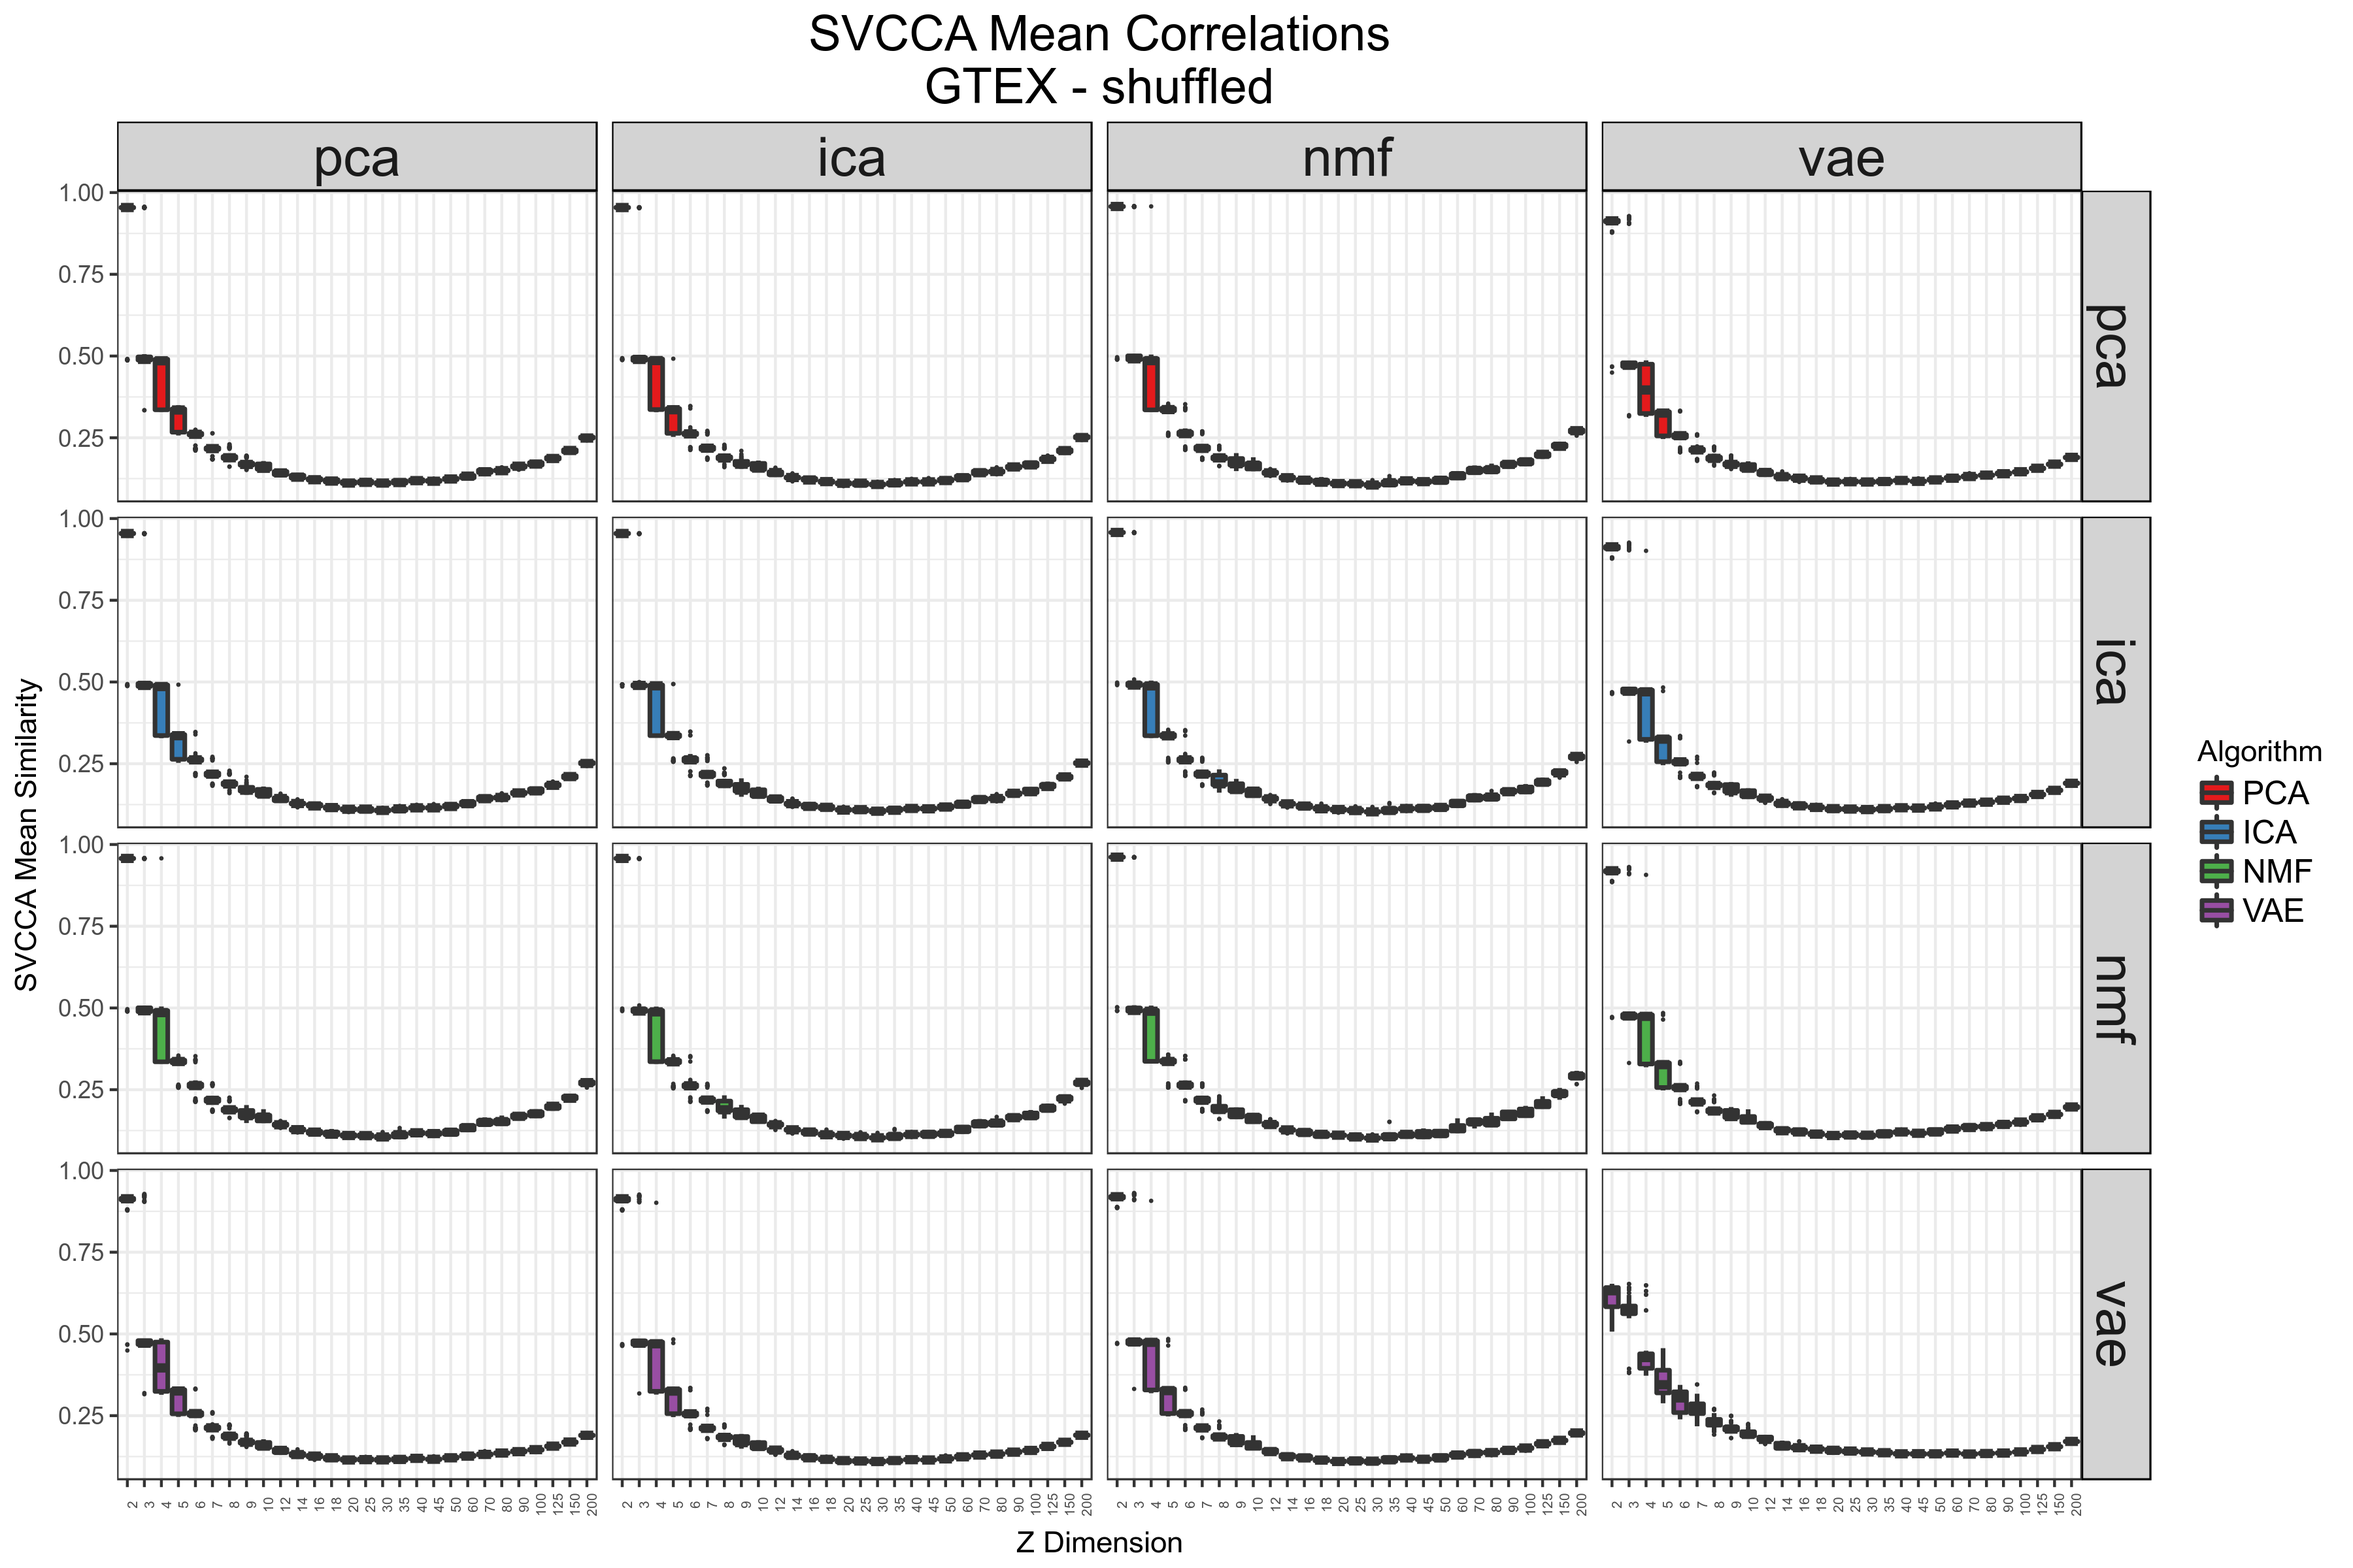
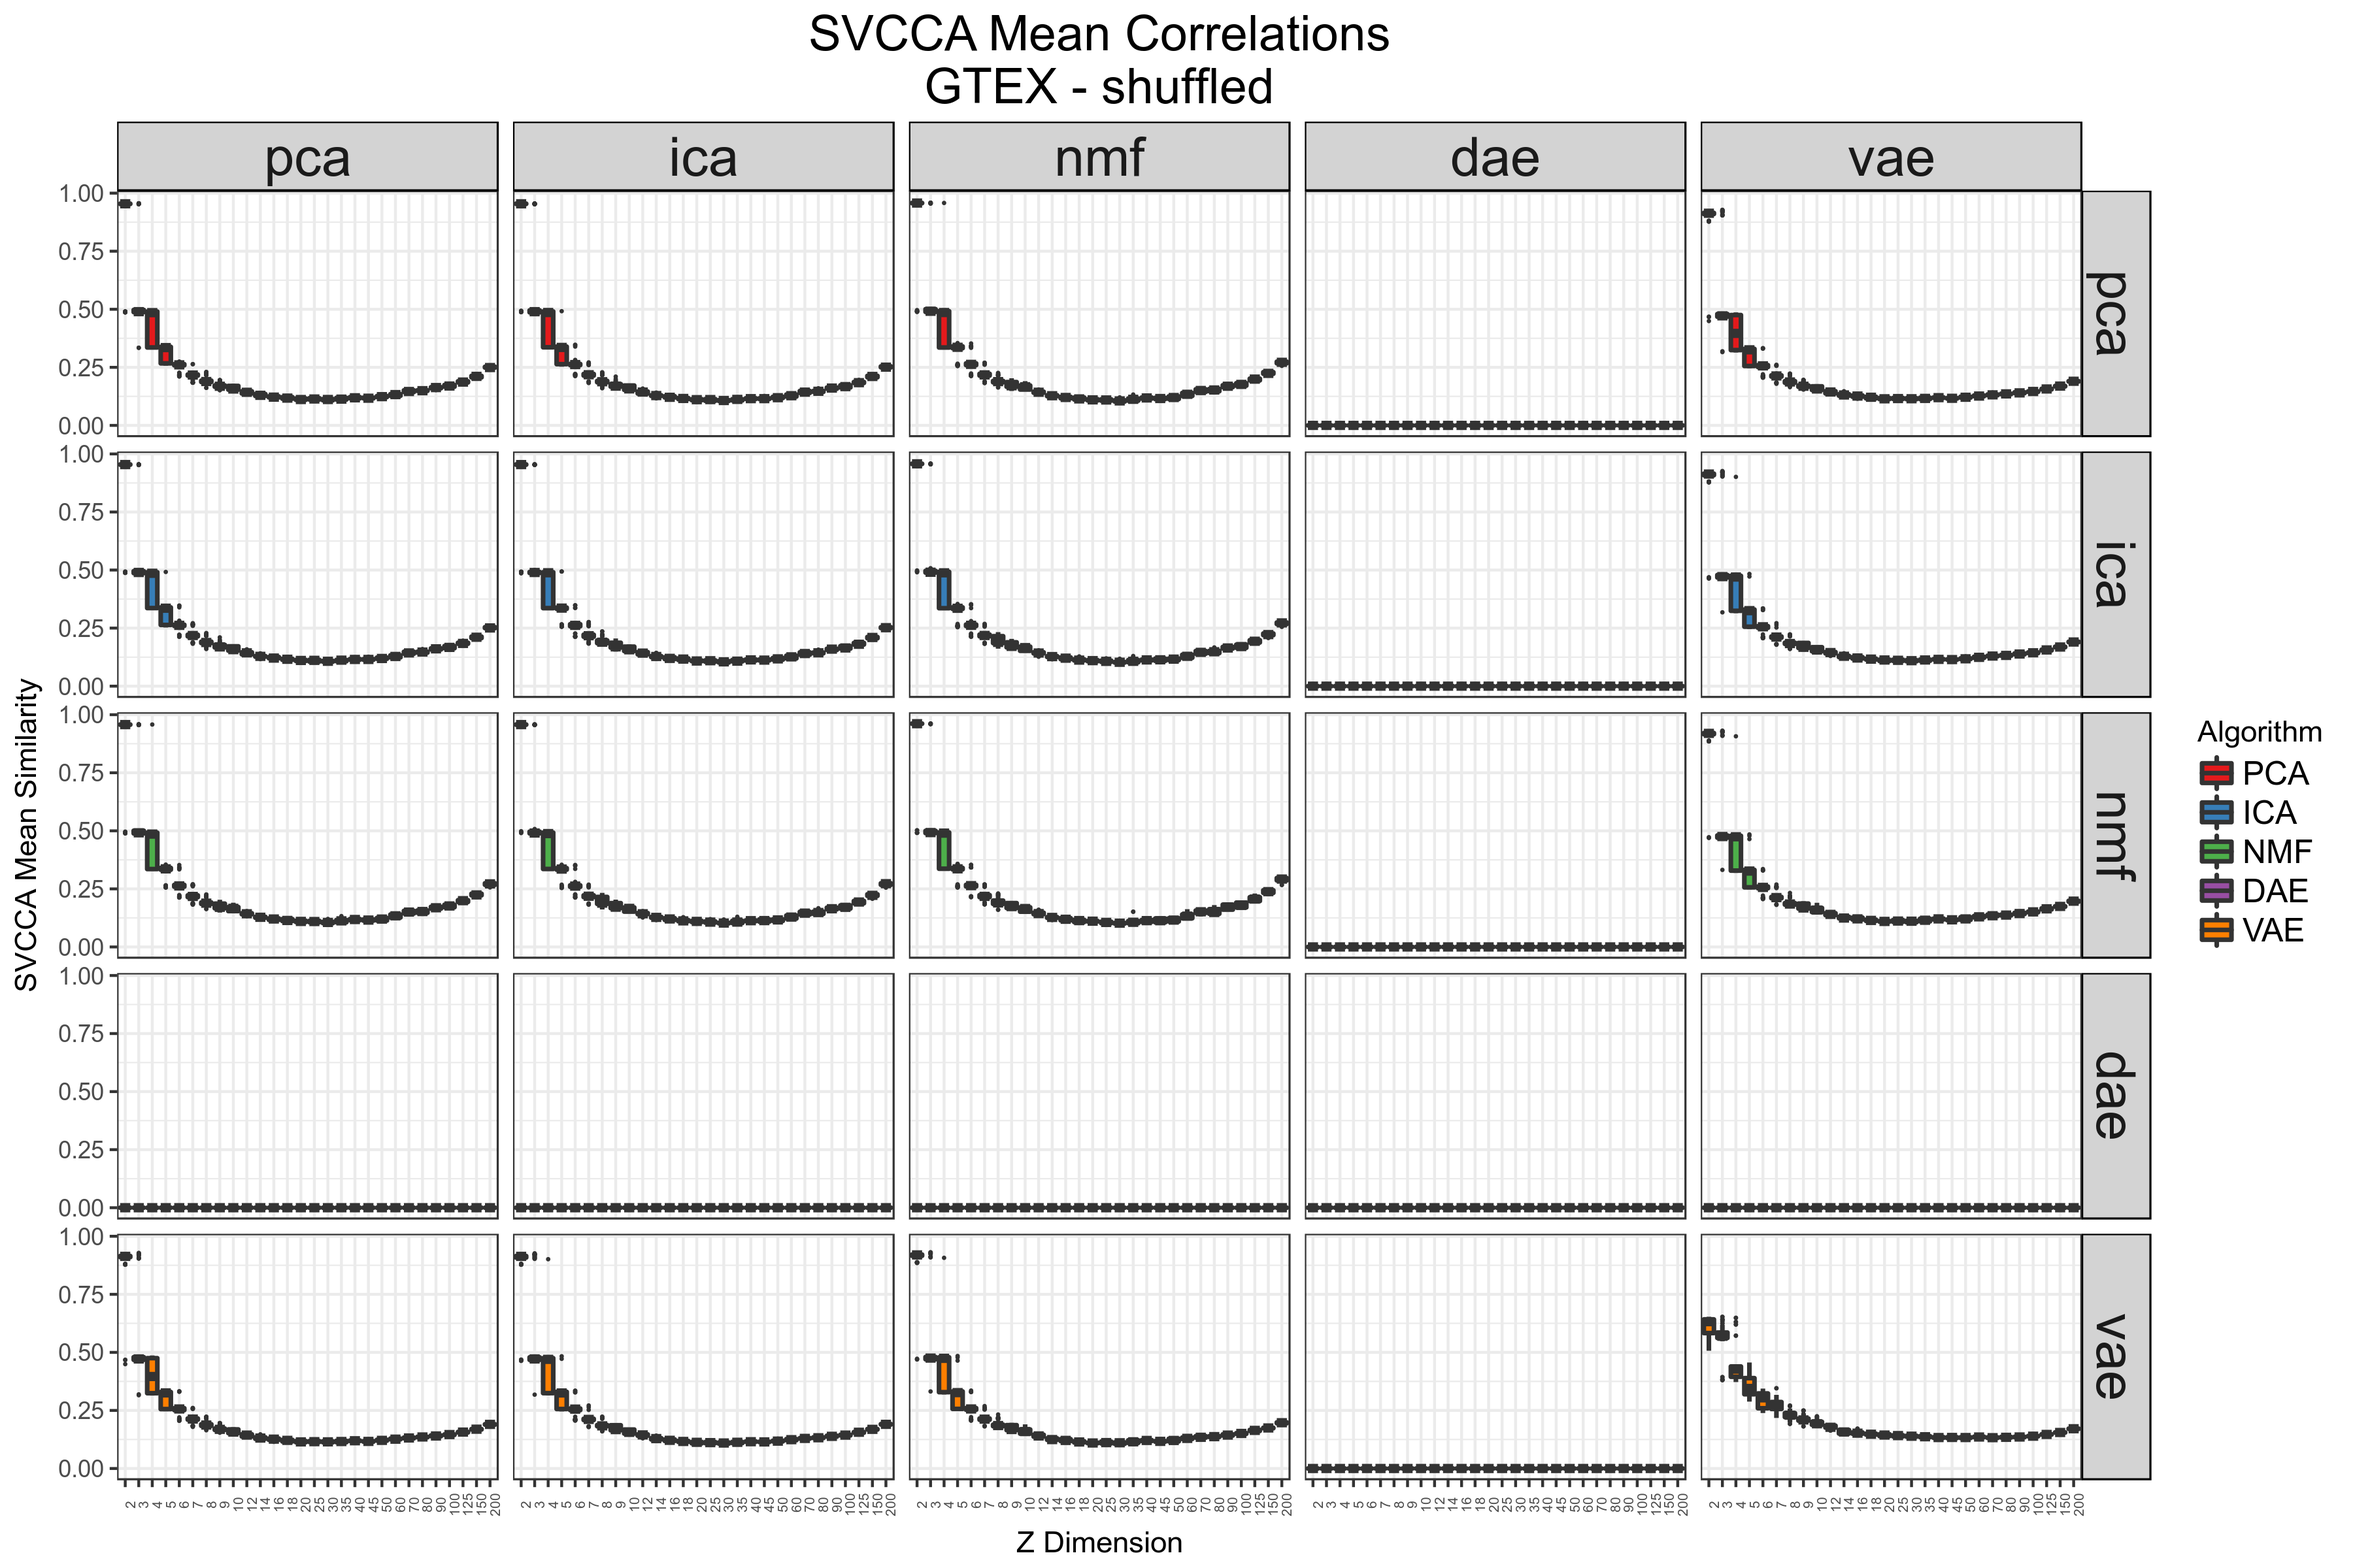
rerun svcca within

diff --git a/4.analyze-components/scripts/cca_core.py b/4.analyze-components/scripts/cca_core.py
@@ -161,9 +161,11 @@ def compute_ccas(sigma_xx, sigma_xy, sigma_yx, sigma_yy, verbose=True):
     print("trying to take final svd")
   arr_x_stable = arr_x + epsilon * np.eye(arr_x.shape[0])
   arr_y_stable = arr_y + epsilon * np.eye(arr_y.shape[0])
-  ux, sx, vx = np.linalg.svd(arr_x_stable)
-  uy, sy, vy = np.linalg.svd(arr_y_stable)
-
+  try:
+      ux, sx, vx = np.linalg.svd(arr_x_stable)
+      uy, sy, vy = np.linalg.svd(arr_y_stable)
+  except:
+      return [0, 0, 0], [0, 0, 0], 0, 0, 0, 0
   sx = np.sqrt(np.abs(sx))
   sy = np.sqrt(np.abs(sy))
   if verbose:
